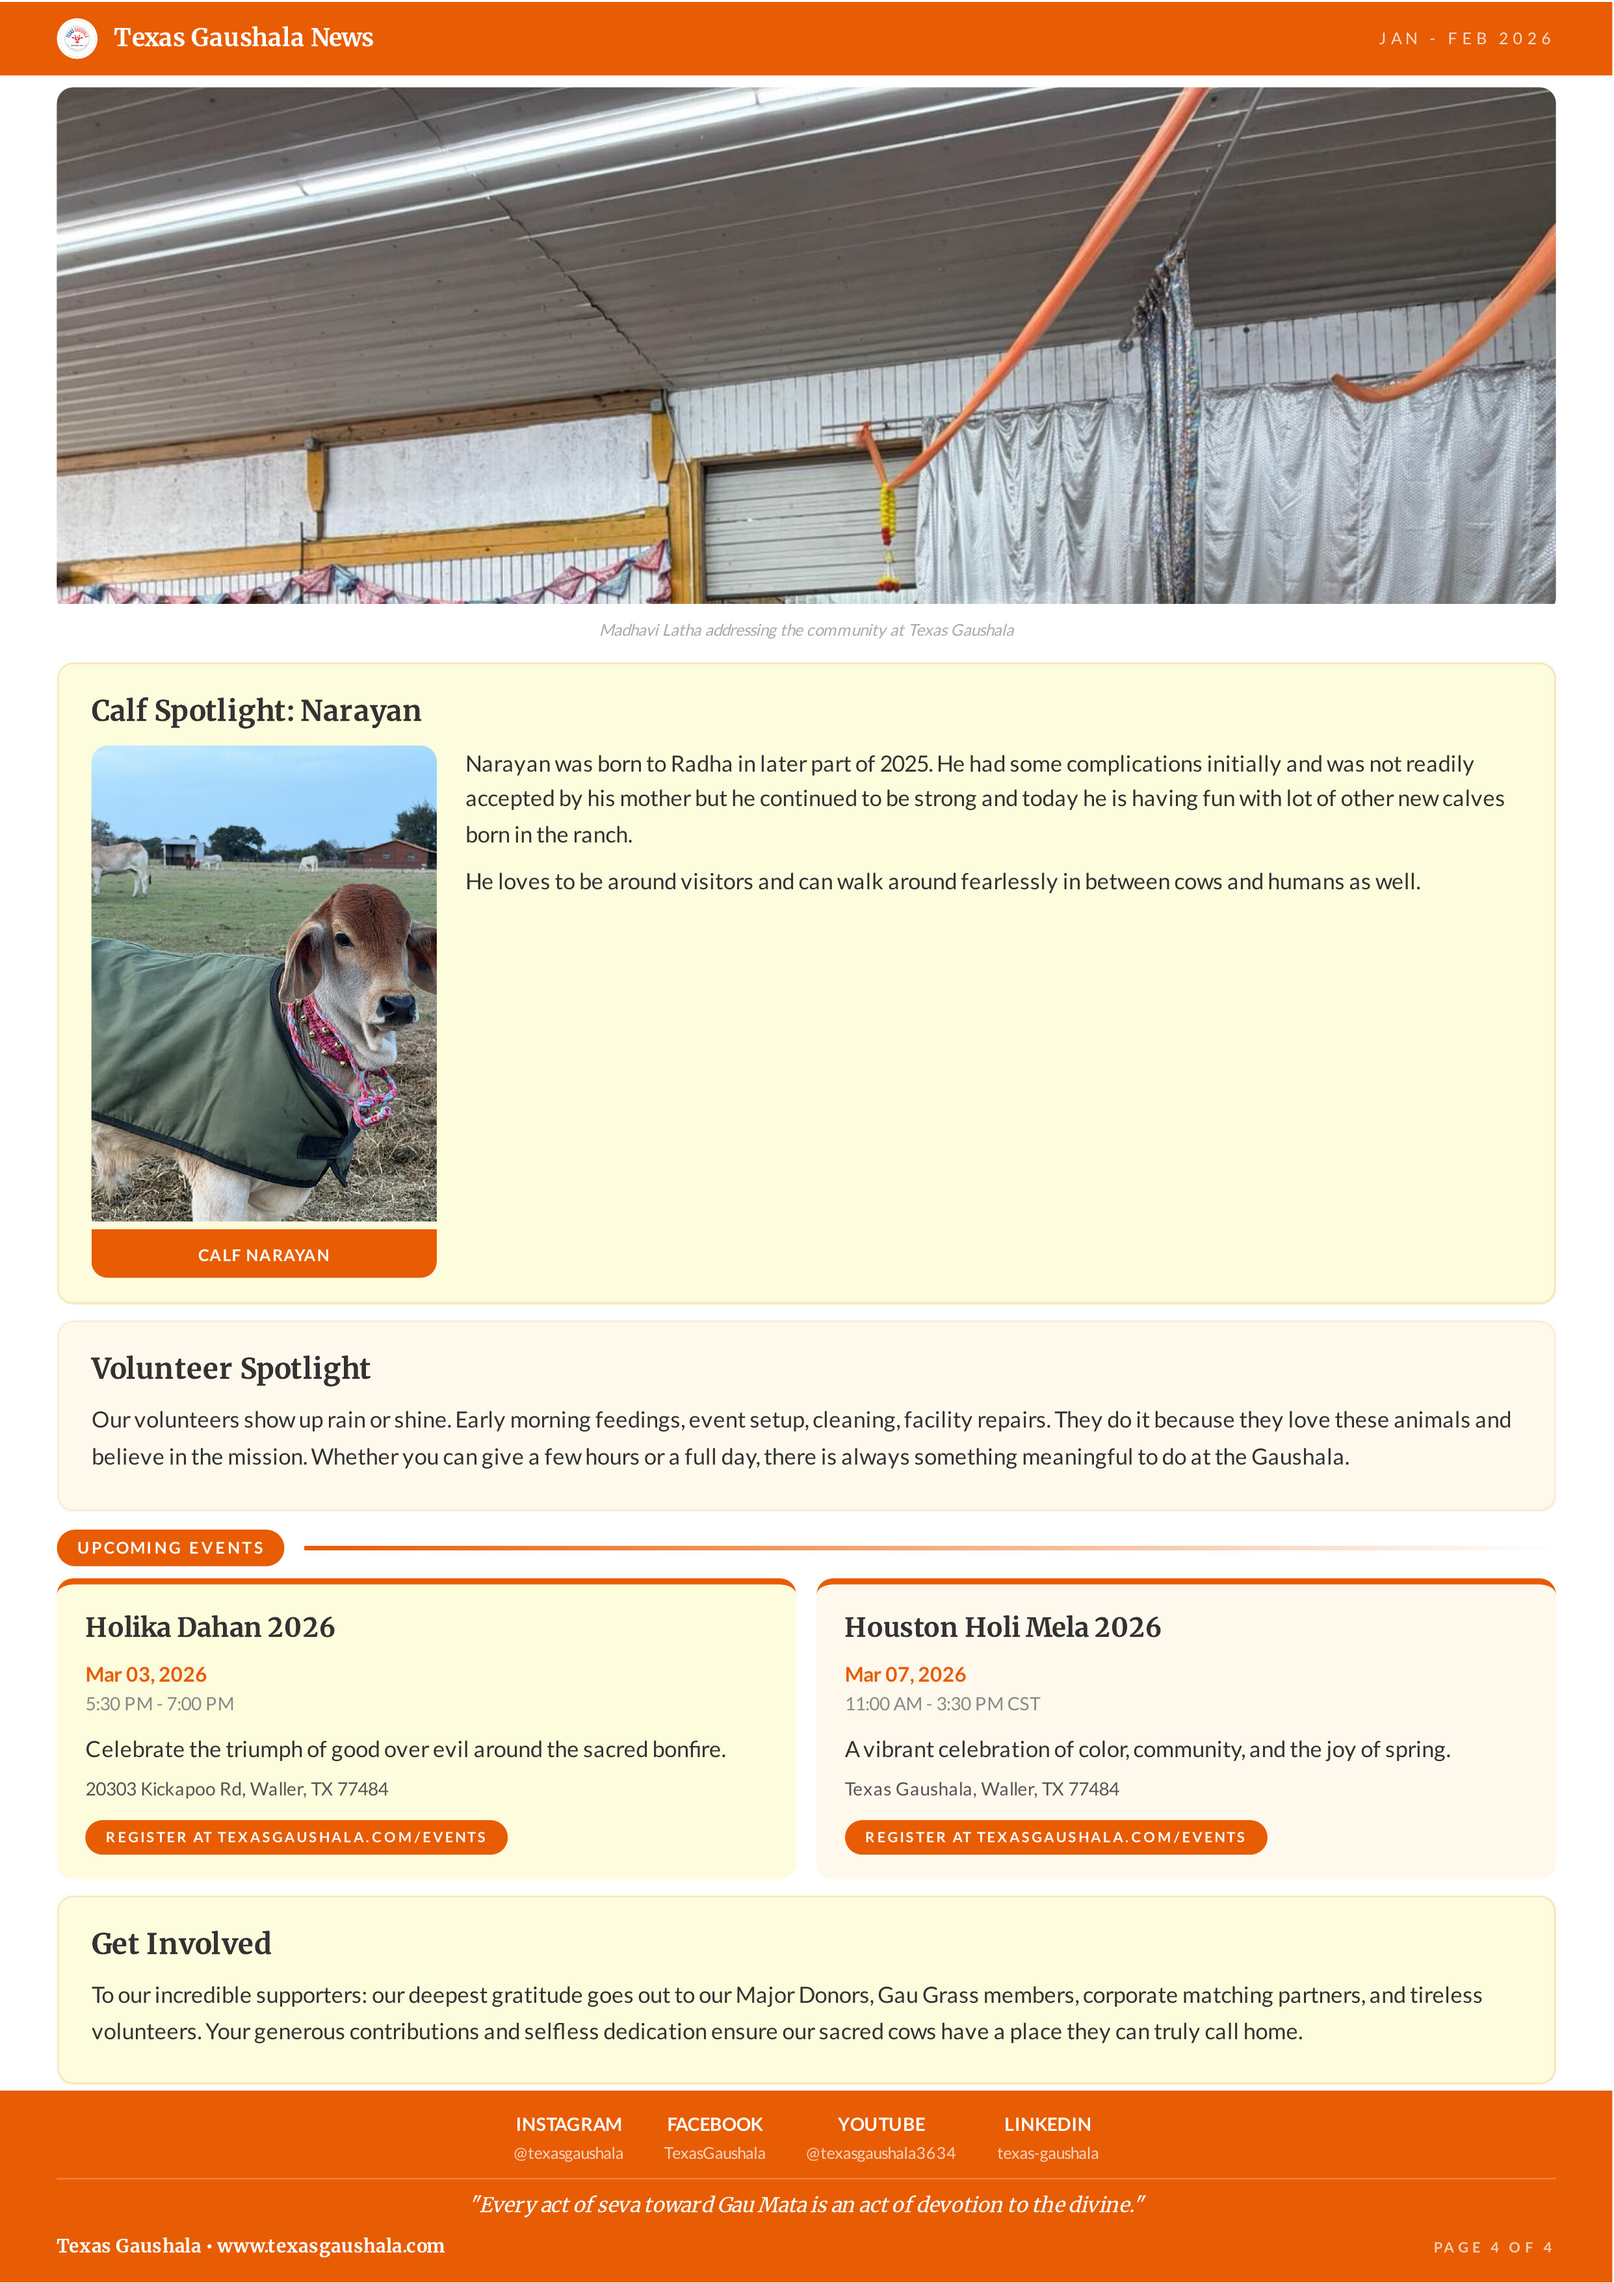
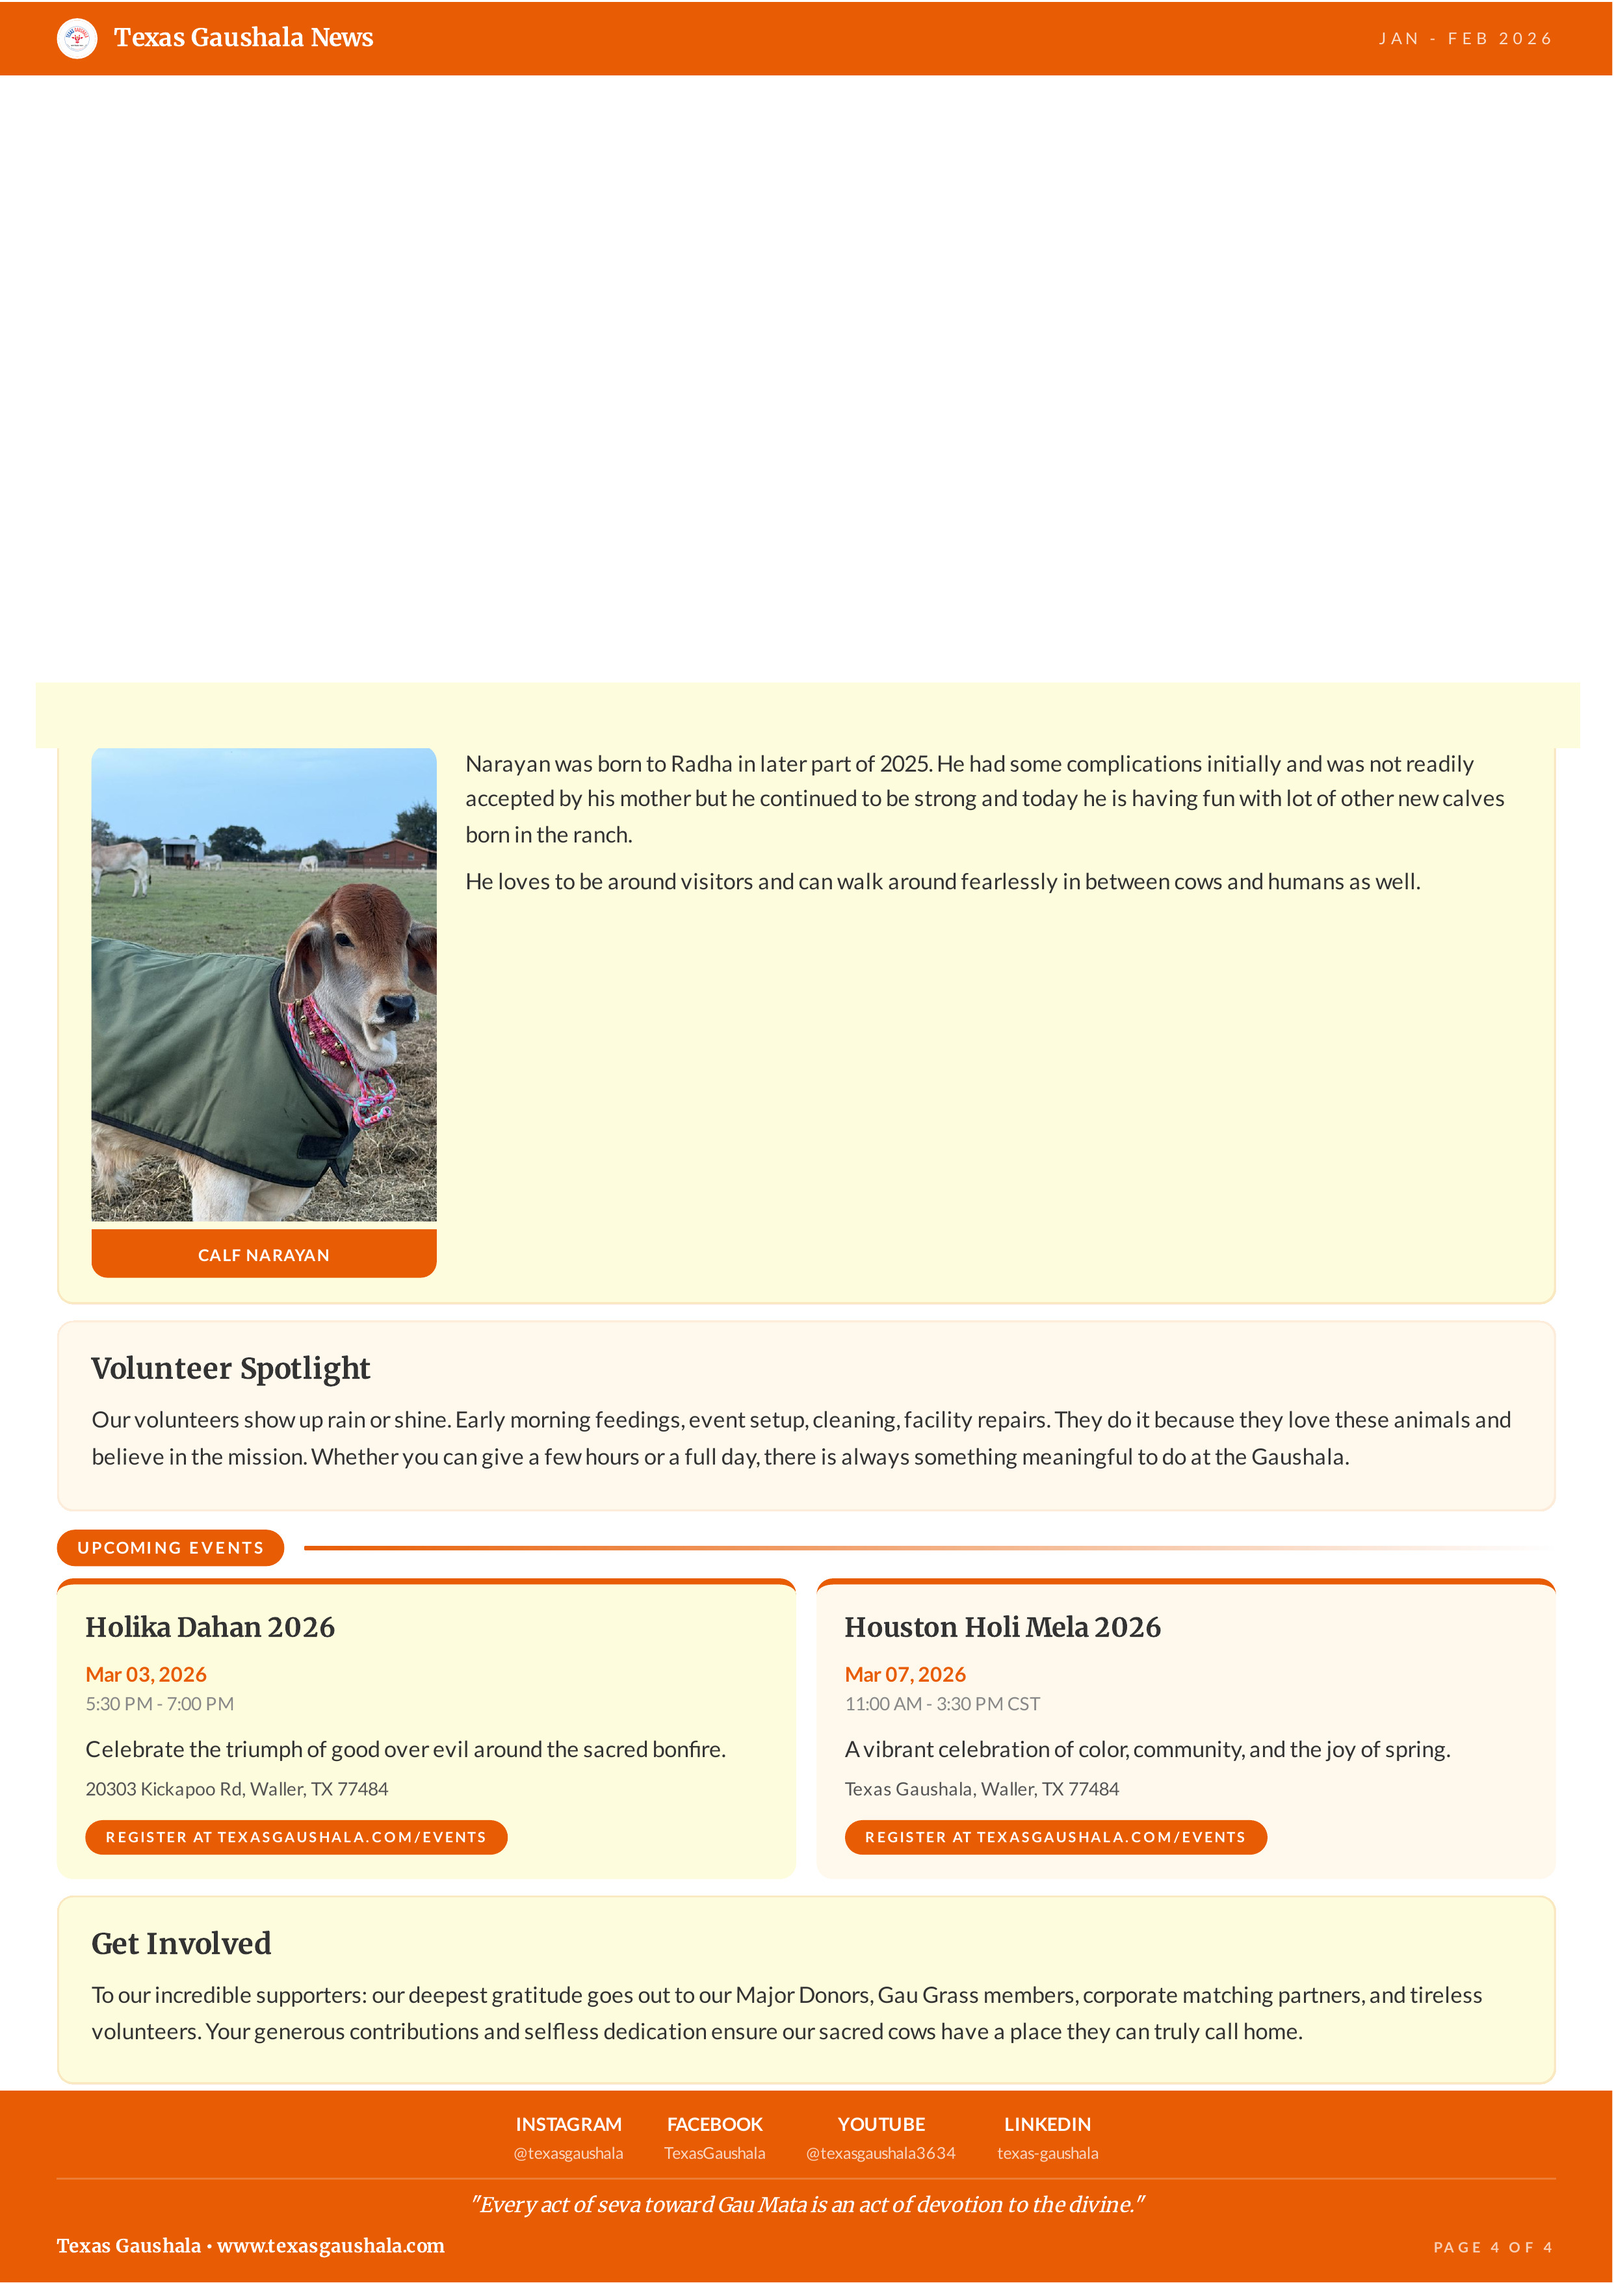
fix: remove Madhavi speech image + caption from page 4

Changed region(s): [[0.0, 0.031, 0.9923, 0.3414]]

diff --git a/index.html b/index.html
@@ -174,13 +174,13 @@ Texas Gaushala was honored to host Madhavi Lathaji today. Her insightful talk pl
 
   <!-- P4 Images -->
   <div class="iz" id="img-logo-4" data-label="Logo P4" style="left:1.5%;top:0.4%;width:2.2%;height:2.2%;" onclick="si(this)"><span class="lb">Logo</span></div>
-  <div class="iz" id="img-madhavi-speech" data-label="Madhavi Speech" style="left:2.5%;top:4%;width:95%;height:27%;" onclick="si(this)"><span class="lb">Madhavi Speech</span></div>
+
   <div class="iz" id="img-calf" data-label="Calf Narayan" style="left:4%;top:37.5%;width:24%;height:20%;" onclick="si(this)"><span class="lb">Calf Narayan</span></div>
 
   <!-- P4 Text -->
   <div class="tz" contenteditable="true" style="left:4.5%;top:0.7%;width:20%;height:1.8%;font-size:12px;font-weight:700;">Texas Gaushala News</div>
   <div class="tz" contenteditable="true" style="left:82%;top:0.7%;width:16%;height:1.5%;font-size:8px;letter-spacing:2px;text-align:right;">JAN - FEB 2026</div>
-  <div class="tz" contenteditable="true" style="left:25%;top:31.5%;width:50%;height:1.5%;font-size:7px;font-style:italic;text-align:center;">Madhavi Latha addressing the community at Texas Gaushala</div>
+
   <div class="tz" contenteditable="true" style="left:4%;top:34.5%;width:30%;height:2.5%;font-size:16px;font-weight:700;font-family:Georgia,serif;">Calf Spotlight: Narayan</div>
   <div class="tz" contenteditable="true" style="left:30%;top:37.5%;width:66%;height:8%;font-size:8.5px;line-height:1.55;font-family:Georgia,serif;">Narayan was born to Radha in later part of 2025. He had some complications initially and was not readily accepted by his mother but he continued to be strong and today he is having fun with lot of other new calves born in the ranch.
 
